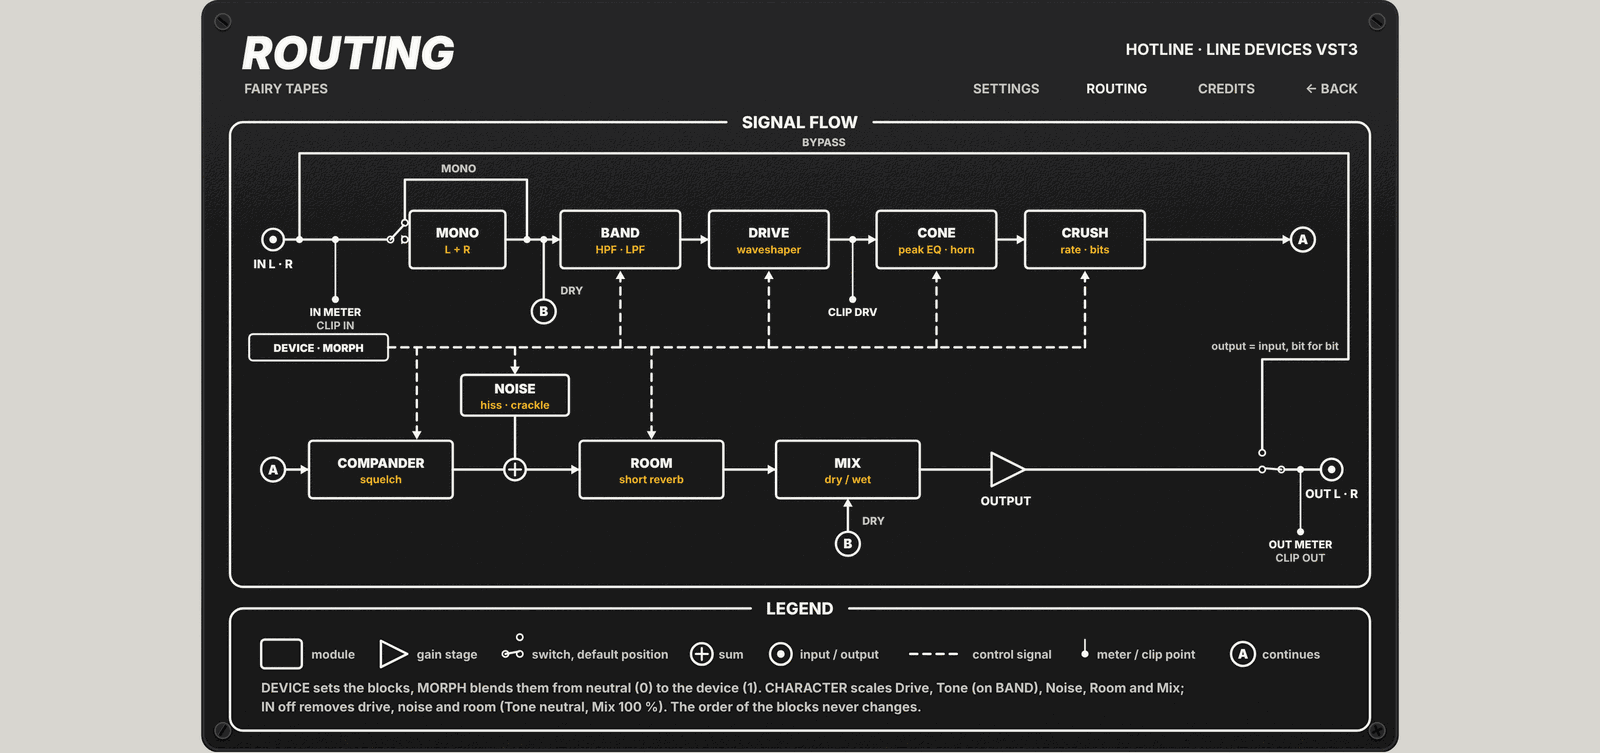
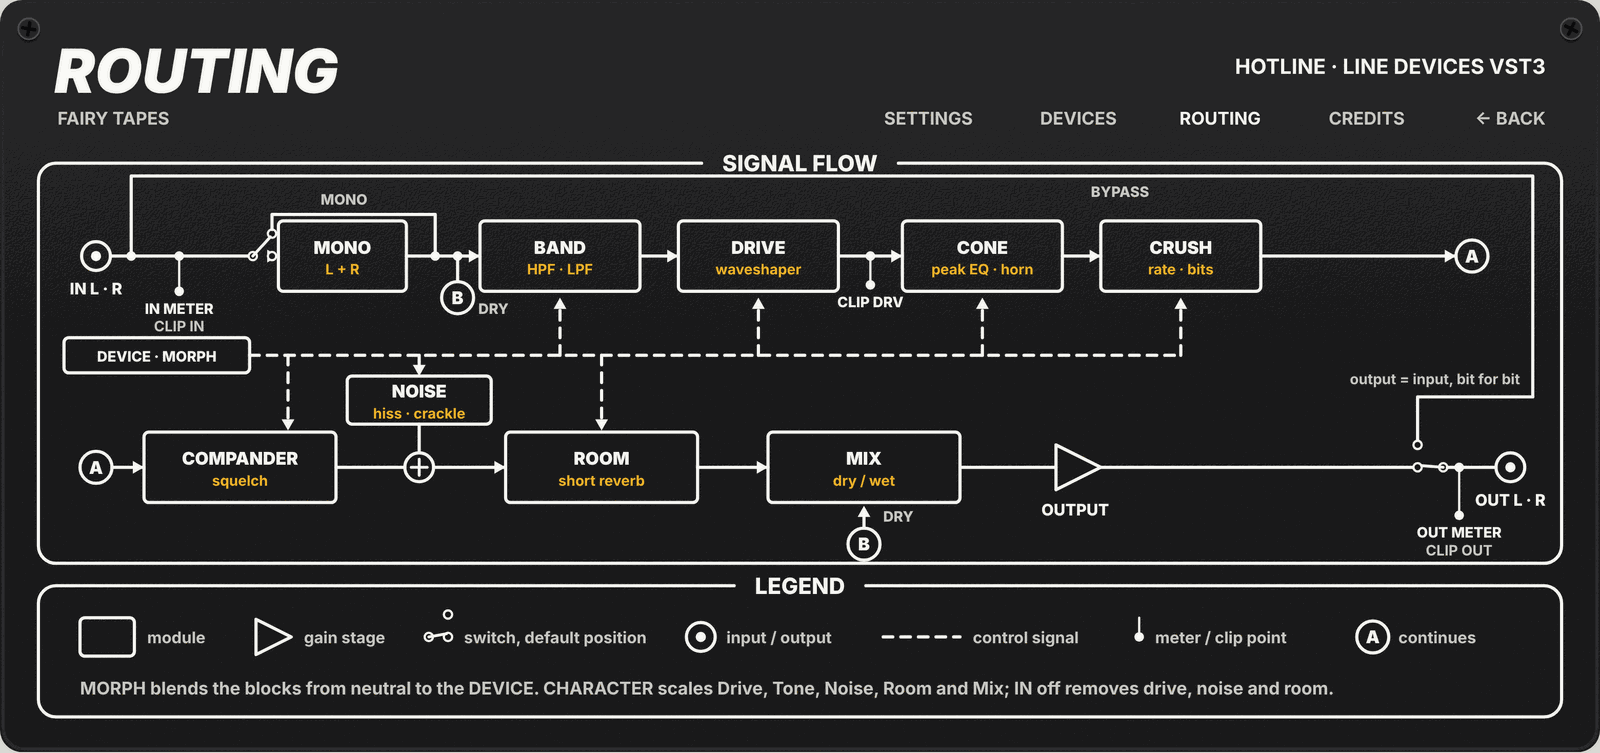
docs(hotline): preview back panel aligned with the editor
470 px tall, SETTINGS, DEVICES, ROUTING and CREDITS tabs, Hotline's own credits, the device table
and the ROUTING diagram transcribed from src/ui/routing_diagram.h.

Claude-Session: https://claude.ai/code/session_01BNqf3JT345UHWAeVCgeNwg

diff --git a/src/hotline/docs/mockups/hotline_rack.html b/src/hotline/docs/mockups/hotline_rack.html
@@ -30,7 +30,7 @@ body{margin:0;padding:16px;background:#e9e8e4;font-family:system-ui,sans-serif;c
   <label>Signal <input type="range" id="lvl" min="0" max="100" value="55" style="width:120px"></label>
   <span style="color:#555">Rack-style panel preview (1000 × 628, landscape). Knobs: drag vertically, Shift = fine, double-click = default. Click a clip LED to clear all. When a module IN button is off (all on by default) its controls dim; the BYPASS button at the top right (Output) dims everything and puts the plugin in bypass.</span>
 </div>
-<div class="stage"><div class="scene"><div class="card" id="card"><svg id="ui" viewBox="0 0 1000 470" role="img" aria-label="Hotline editor, rack-style panel"></svg><svg id="back" viewBox="0 0 1000 628" role="img" aria-label="Credits, references and licenses"></svg></div></div></div>
+<div class="stage"><div class="scene"><div class="card" id="card"><svg id="ui" viewBox="0 0 1000 470" role="img" aria-label="Hotline editor, rack-style panel"></svg><svg id="back" viewBox="0 0 1000 470" role="img" aria-label="Settings, devices, routing and credits"></svg></div></div></div>
 <script>
 var NS='http://www.w3.org/2000/svg',svg=document.getElementById('ui');
 function el(n,a,p){var e=document.createElementNS(NS,n);for(var k in a)e.setAttribute(k,a[k]);(p||CUR||ROOT).appendChild(e);return e;}
@@ -420,36 +420,36 @@ endGrp();byp(948,304,g1);
 
 
 
-/* ============ BACK: credits, references, licenses ============ */
+/* ============ BACK: settings, devices, routing, credits (2026-11-02: aligned with the editor, 470 px, the kShort template) ============ */
 var back=document.getElementById('back');ROOT=back;CUR=null;
-el('rect',{width:1000,height:628,rx:14,fill:'#161617'});texLayer();
-el('rect',{x:2,y:2,width:996,height:624,rx:13,fill:'none',stroke:'#2c2c2f','stroke-width':2});
+el('rect',{width:1000,height:470,rx:14,fill:'#161617'});texLayer();
+el('rect',{x:2,y:2,width:996,height:466,rx:13,fill:'none',stroke:'#2c2c2f','stroke-width':2});
 LY=layers();addWear(LY.wear,0x77,true);screws(LY.screw);
 var bTitle=txt('CREDITS',34,58,38,W,'start',900,back,true);
 txt('FAIRY TAPES',36,78,11,DIMW,'start',700);
-var PANES={credits:el('g',{},back),settings:el('g',{},back),routing:el('g',{},back)},BOXES={credits:el('g',{},LY.box),settings:el('g',{},LY.box),routing:el('g',{},LY.box)},TABEL={};
+var TABS=['settings','devices','routing','credits'],PANES={},BOXES={},TABEL={};
+TABS.forEach(function(k){PANES[k]=el('g',{},back);BOXES[k]=el('g',{},LY.box);});
 function tabLink(label,key,x){var g=el('g',{style:'cursor:pointer'});el('rect',{x:x-84,y:66,width:86,height:18,fill:'transparent'},g);TABEL[key]=txt(label,x,78,11,DIMW,'end',700,g);g.addEventListener('click',function(){showTab(key);});}
-tabLink('SETTINGS','settings',700);tabLink('ROUTING','routing',790);tabLink('CREDITS','credits',880);
+tabLink('SETTINGS','settings',608);tabLink('DEVICES','devices',698);tabLink('ROUTING','routing',788);tabLink('CREDITS','credits',878);
 var bk=el('g',{style:'cursor:pointer'});el('rect',{x:896,y:66,width:76,height:18,fill:'transparent'},bk);txt('←  BACK',966,78,11,DIMW,'end',700,bk);
 bk.addEventListener('click',function(){document.getElementById('card').classList.remove('flipped');});
-function showTab(k){lsSet('st_tab',k);bTitle.textContent=k.toUpperCase();['credits','settings','routing'].forEach(function(t){PANES[t].style.display=BOXES[t].style.display=(t===k?'':'none');TABEL[t].setAttribute('fill',t===k?W:DIMW);});}
+function showTab(k){if(TABS.indexOf(k)<0)k='settings';lsSet('st_tab',k);bTitle.textContent=k.toUpperCase();TABS.forEach(function(t){PANES[t].style.display=BOXES[t].style.display=(t===k?'':'none');TABEL[t].setAttribute('fill',t===k?W:DIMW);});}
 txt('HOTLINE  ·  LINE DEVICES VST3',966,46,13,W,'end',700);
 
-/* ---- CREDITS tab ---- */
+/* ---- CREDITS tab: what the plug-in ships (src/ui/credits.h) ---- */
 CUR=PANES.credits;BOXOVR=BOXES.credits;
-box(24,102,952,118,'HOTLINE','top');
-txt('Version 1.0.0  ·  Fairy Tapes  ·  github.com/sweetspot-tools',50,140,14,W,'start',700);
-txt('Free software: released under the GNU General Public License v3.0 (GPL-3.0), full text in the LICENSE file.',50,164,12,DIMW,'start',700);
-txt('The plugin includes GPL-3.0 components, so the combined work is distributed under the same license.',50,184,12,DIMW,'start',700);
-txt('Source code and build instructions are available in the project repository.',50,204,12,DIMW,'start',700);
-box(24,246,952,252,'COMPONENTS AND LICENSES','top');
-var CRD=[['4K-EQ · Multi-Comp','Dusk Audio','GPL-3.0'],['Airwindows','Chris Johnson','MIT'],['Neural Amp Modeler Core','Steven Atkinson','MIT'],['Eigen','Eigen contributors','MPL-2.0'],['nlohmann/json','Niels Lohmann','MIT'],['VST 3 SDK','Steinberg Media Technologies','MIT'],['VSTGUI','Steinberg Media Technologies','VSTGUI license (BSD)']];
-CRD.forEach(function(c,i){var y=284+i*30;txt(c[0],50,y,14,W,'start',800);txt(c[1],350,y,13,DIMW,'start',700);txt(c[2],950,y,13,AMBL,'end',700);
-  if(i<CRD.length-1)el('path',{d:'M50 '+(y+12)+' H950',stroke:DIMW,'stroke-width':1,opacity:.25});});
-box(24,522,952,88,'NOTICES','top');
-txt('VST is a trademark of Steinberg Media Technologies GmbH, registered in Europe and other countries.',50,556,12,DIMW,'start',700);
-txt('.nam models belong to their authors and each carries its own license.',50,578,12,DIMW,'start',700);
-txt('Third-party names are cited for attribution only.',50,598,12,DIMW,'start',700);
+box(24,102,952,92,'HOTLINE','top');
+txt('Version 1.0.0  ·  Fairy Tapes  ·  github.com/sweetspot-tools',50,132,14,W,'start',700);
+txt('Free software: released under the GNU General Public License v3.0 (GPL-3.0), full text in the LICENSE file.',50,150,12,DIMW,'start',700);
+txt('Source code, build instructions and the license texts of the components are in the project repository.',50,166,12,DIMW,'start',700);
+box(24,210,952,140,'COMPONENTS AND LICENSES','top');
+var CRD=[['VST 3 SDK','Steinberg Media Technologies','MIT'],['VSTGUI','Steinberg Media Technologies','BSD-3-Clause'],['Zeyada (tape font)','Kimberly Geswein','OFL-1.1'],['Rock Salt (tape font)','Font Diner','Apache-2.0'],['Homemade Apple (tape font)','Font Diner','Apache-2.0']];
+CRD.forEach(function(c,i){var y=238+i*22;txt(c[0],50,y,14,W,'start',800);txt(c[1],350,y,13,DIMW,'start',700);txt(c[2],950,y,13,AMBL,'end',700);
+  if(i<CRD.length-1)el('path',{d:'M50 '+(y+8)+' H950',stroke:DIMW,'stroke-width':1,opacity:.25});});
+box(24,366,952,82,'NOTICES','top');
+txt('VST is a trademark of Steinberg Media Technologies GmbH, registered in Europe and other countries.',50,394,12,DIMW,'start',700);
+txt('The tape fonts are embedded as vector outlines of their glyphs; no font file is installed.',50,412,12,DIMW,'start',700);
+txt('Third-party names are cited for attribution only.',50,430,12,DIMW,'start',700);
 
 /* ---- SETTINGS tab: appearance (saved for the user, all projects) and behaviour (saved with the project) ---- */
 CUR=PANES.settings;BOXOVR=BOXES.settings;
@@ -461,30 +461,32 @@ function seg(x,y,items,sel,cb,w){var rects=[],labels=[];w=w||70;
 function act(x,y,w,label,cb,off){var g=el('g',{style:off?'':'cursor:pointer',opacity:off?.4:1});var r=el('rect',{x:x,y:y,width:w,height:24,rx:2,fill:'#8e8e91',stroke:'#b8b8bb'},g);txt(label,x+w/2,y+16,11,'#1a1a1c','middle',800,g);if(!off)g.addEventListener('click',cb);}
 function row(label,y,hint,x0){x0=x0||50;txt(label,x0,y+16,13,W,'start',800);if(hint)txt(hint,x0,y+32,10,DIMW,'start',700);}
 var SC=514;
-box(24,102,462,364,'APPEARANCE','top');txt('saved for you, in every project',255,130,10,DIMW,'middle',700);
-row('WEAR',146);seg(200,146,['OFF','LIGHT','HEAVY'],['off','light','heavy'].indexOf(WEAR),function(i){var w=document.getElementById('wear');w.value=['off','light','heavy'][i];w.dispatchEvent(new Event('change'));},84);
-row('NOTES LAYER',194,'tape and pen marks on the values');seg(200,194,['HIDE','SHOW'],1,function(){},84);
+box(24,102,462,234,'APPEARANCE','top');txt('saved for you, in every project',255,130,10,DIMW,'middle',700);
+row('WEAR',140);seg(200,140,['OFF','LIGHT','HEAVY'],['off','light','heavy'].indexOf(WEAR),function(i){var w=document.getElementById('wear');w.value=['off','light','heavy'][i];w.dispatchEvent(new Event('change'));},84);
 /* tape font: stepper, each name drawn in its own font */
-row('TAPE FONT',242,'handwriting on the tape');(function(){var names=Object.keys(TAPEFONTS),x=200,y=242,w=176;
+row('TAPE FONT',180,'handwriting on the tape');(function(){var names=Object.keys(TAPEFONTS),x=200,y=180,w=176;
   function arrow(ax,lab,d){var g=el('g',{style:'cursor:pointer'});el('rect',{x:ax,y:y,width:24,height:24,rx:2,fill:'#8e8e91',stroke:'#b8b8bb'},g);txt(lab,ax+12,y+17,14,'#1a1a1c','middle',800,g);g.addEventListener('click',function(){var i=(names.indexOf(TAPEFONT)+d+names.length)%names.length;TAPEFONT=names[i];lsSet('st_tapefont',TAPEFONT);upd();redrawWear();applyHW();fitName();});}
   el('rect',{x:x+26,y:y,width:w,height:24,rx:2,fill:'none',stroke:W,'stroke-width':1.5});var t=el('text',{x:x+26+w/2,y:y+17,'text-anchor':'middle',fill:W});
   function upd(){t.textContent=TAPEFONT;t.setAttribute('font-family',"'"+TAPEFONT+"',cursive");t.setAttribute('font-size',Math.min(19,(12*TAPEFONTS[TAPEFONT]+3)).toFixed(1));}
   arrow(x,'‹',-1);arrow(x+26+w+2,'›',1);upd();})();
-row('VALUES FONT',290,'values and model name');seg(200,290,['STANDARD','TAPE FONT'],HW?1:0,function(i){HW=(i===1);lsSet('st_hw',HW?'1':'0');applyHW();},118);
-row('METER HOLD',338);seg(200,338,['OFF','1.5 S','3 S','INF'],1,function(){},63);
-row('METER RELEASE',386);seg(200,386,['SLOW','NORMAL','FAST'],1,function(){},84);
-row('LOOK',434);act(200,434,120,'RE-ROLL',function(){document.getElementById('reroll').click();});txt('new wear, dirt and screws',332,450,10,DIMW,'start',700);
-box(SC,102,462,364,'BEHAVIOUR','top');txt('saved with the project',SC+231,130,10,DIMW,'middle',700);
-row('NAM INFERENCE',146,'GPU available (CUDA)',SC+26);seg(SC+176,146,['AUTO','GPU','CPU'],0,function(){},84);
-row('RECALL MARKS',194,'where the pen marks sit',SC+26);seg(SC+176,194,['AUTO','MANUAL'],0,function(){},84);
-row('MARK NOW',242,'set the marks to the current values',SC+26);act(SC+176,242,120,'MARK NOW',function(){});
-row('MODEL FOLDERS',290,'',SC+26);act(SC+176,290,120,'MANAGE…',function(){});
-row('TONE3000',338,'',SC+26);act(SC+176,338,120,'SIGN IN',function(){},true);txt('coming later',SC+308,354,10,DIMW,'start',700);
-box(24,484,952,120,'NOTES','top');
-txt('Appearance settings belong to you: they are kept in your preferences and apply to every project and every instance.',50,522,12,DIMW,'start',700);
-txt('Behaviour settings change how the plugin works: they are saved in the project, together with the parameters.',50,544,12,DIMW,'start',700);
-txt('The wear layout (scratches, tape, screws) is generated once per instance from a saved seed and never changes by itself.',50,566,12,DIMW,'start',700);
-txt('Double-click on a knob returns it to its neutral default.',50,588,12,DIMW,'start',700);
+box(SC,102,462,234,'BEHAVIOUR','top');txt('saved with the project',SC+231,130,10,DIMW,'middle',700);
+box(24,350,952,98,'NOTES','top');
+txt('Appearance settings belong to you: they are kept in your preferences and apply to every project and every instance.',50,376,12,DIMW,'start',700);
+txt('Hotline has no behaviour settings yet; the ones added later are saved in the project, together with the parameters.',50,394,12,DIMW,'start',700);
+txt('The wear layout (scratches, tape, screws) is generated once per instance from a saved seed and never changes by itself.',50,412,12,DIMW,'start',700);
+txt('Double-click on a knob returns it to its neutral default.',50,430,12,DIMW,'start',700);
+
+/* ---- DEVICES tab: the device table (src/devices.cpp), one box per device, as the editor draws it ---- */
+CUR=PANES.devices;BOXOVR=BOXES.devices;
+var DEVTAB=[['Megaphone',[['HIGH PASS','400 Hz'],['LOW PASS','4.5 kHz'],['DRIVE','50 %'],['CONE','1.8 kHz +6 dB Q 2'],['HORN','+4 dB'],['COMPANDER','3:1'],['NOISE','-60 dB'],['ROOM','5 %']]],
+  ['Telephone',[['HIGH PASS','300 Hz'],['LOW PASS','3.4 kHz'],['DRIVE','25 %'],['CONE','1.2 kHz +3 dB Q 1'],['CRUSH','8 kHz 10 bit'],['COMPANDER','2:1'],['NOISE','-54 dB']]],
+  ['Walkie-talkie',[['HIGH PASS','400 Hz'],['LOW PASS','2.8 kHz'],['DRIVE','70 %'],['CONE','1.5 kHz +4 dB Q 1'],['CRUSH','11.025 kHz 8 bit'],['COMPANDER','6:1 squelch -50 dB'],['NOISE','-40 dB']]],
+  ['AM radio',[['HIGH PASS','150 Hz'],['LOW PASS','5 kHz'],['DRIVE','30 %'],['CONE','900 Hz +2 dB Q 0.8'],['COMPANDER','2:1'],['NOISE','-48 dB']]],
+  ['Station PA',[['HIGH PASS','250 Hz'],['LOW PASS','6 kHz'],['DRIVE','20 %'],['CONE','2.5 kHz +4 dB Q 1.5'],['COMPANDER','2:1'],['NOISE','-66 dB'],['ROOM','60 %']]],
+  ['Cheap speaker',[['HIGH PASS','180 Hz'],['LOW PASS','7 kHz'],['DRIVE','40 %'],['CONE','1.1 kHz +5 dB Q 3'],['NOISE','-70 dB']]]];
+DEVTAB.forEach(function(d,i){var bx=24+(i%3)*322,by=i<3?102:283;box(bx,by,308,166,d[0],'top');
+  d[1].forEach(function(r,j){var y=by+34+j*16,lt=txt(r[0],bx+22,y,11,W,'start',800);txt(r[1],bx+22+lt.getComputedTextLength()+5,y,11,DIMW,'start',700);});});
+
 /* ---- ROUTING tab (design system, 2026-10-23): fixed block diagram of the signal path, outboard-manual style; order of the audio engine (spec §2) ---- */
 CUR=PANES.routing;BOXOVR=BOXES.routing;
 var RT=(function(){
@@ -506,45 +508,44 @@ var RT=(function(){
   function conn(x,y,k){el('circle',{cx:x,cy:y,r:10,fill:'none',stroke:W,'stroke-width':2});txt(k,x,y+4,11,W,'middle',900);}
   function sum(x,y){el('circle',{cx:x,cy:y,r:9,fill:'none',stroke:W,'stroke-width':2});ln('M'+(x-5)+' '+y+' H'+(x+5)+' M'+x+' '+(y-5)+' V'+(y+5),false,1.8);}
   return {ln:ln,arrow:arrow,arrowUp:arrowUp,arrowDown:arrowDown,dot:dot,ring:ring,jack:jack,amp:amp,block:block,inSwitch:inSwitch,tap:tap,conn:conn,sum:sum};})();
-box(24,102,952,388,'SIGNAL FLOW','top');
-(function(){var Y1=200,Y2=392,L=RT.ln,CB=290;
-  /* row 1: input, mono sum (off by default), dry split, band, drive, cone, crush */
-  RT.jack(60,Y1,'IN L · R');L('M69 '+Y1+' H158');RT.dot(82,Y1);RT.tap(112,Y1,50,'IN METER','CLIP IN');
-  L('M170 '+Y1+' H174');RT.block(174,254,Y1,48,'MONO',['L + R']);RT.inSwitch(158,Y1,272,150,'MONO',true);L('M254 '+Y1+' H300');
-  RT.dot(286,Y1);L('M286 '+Y1+' V250');RT.conn(286,260,'B');txt('DRY',300,246,9,DIMW,'start',800);
-  RT.block(300,400,Y1,48,'BAND',['HPF · LPF']);L('M400 '+Y1+' H424');
-  RT.block(424,524,Y1,48,'DRIVE',['waveshaper']);L('M524 '+Y1+' H564');RT.tap(544,Y1,50,'CLIP DRV');
-  RT.block(564,664,Y1,48,'CONE',['peak EQ · horn']);L('M664 '+Y1+' H688');
-  RT.block(688,788,Y1,48,'CRUSH',['rate · bits']);L('M788 '+Y1+' H910');
-  RT.arrow(910,Y1);RT.conn(920,Y1,'A');
-  /* DEVICE x MORPH: control line into every block the device table sets */
-  el('rect',{x:40,y:CB-11,width:116,height:22,rx:3,fill:'none',stroke:W,'stroke-width':1.6});txt('DEVICE · MORPH',98,CB+4,9,W,'middle',900);
+box(24,102,952,250,'SIGNAL FLOW','top');
+/* transcription of src/ui/routing_diagram.h (the editor, 470 px back): rows at 160 and 292 */
+(function(){var Y1=160,CB=222,Y2=292,TOP=110,YB=248,Ysw=Y1-26,L=RT.ln;
+  /* row 1: input, mono sum (off by default), dry tap, band, drive, cone, crush */
+  RT.jack(60,Y1,'IN L · R');L('M69 '+Y1+' H158');RT.dot(82,Y1);RT.tap(112,Y1,22,'IN METER','CLIP IN');
+  L('M170 '+Y1+' H174');RT.block(174,254,Y1,44,'MONO',['L + R']);
+  RT.ring(158,Y1);RT.ring(170,Y1);RT.ring(170,Y1-14);L('M158 '+Y1+' L169 '+(Y1-12),false,1.8);
+  L('M170 '+(Y1-16.6)+' V'+Ysw+' H272 V'+Y1);RT.dot(272,Y1);txt('MONO',215,Ysw-6,9,DIMW,'middle',800);
+  L('M254 '+Y1+' H300');RT.dot(286,Y1);L('M286 '+Y1+' V'+(Y1+16));RT.conn(286,Y1+26,'B');txt('DRY',299,Y1+36,9,DIMW,'start',800);
+  RT.block(300,400,Y1,44,'BAND',['HPF · LPF']);L('M400 '+Y1+' H424');
+  RT.block(424,524,Y1,44,'DRIVE',['waveshaper']);L('M524 '+Y1+' H564');RT.tap(544,Y1,18,'CLIP DRV');
+  RT.block(564,664,Y1,44,'CONE',['peak EQ · horn']);L('M664 '+Y1+' H688');
+  RT.block(688,788,Y1,44,'CRUSH',['rate · bits']);L('M788 '+Y1+' H910');RT.arrow(910,Y1);RT.conn(920,Y1,'A');
+  /* DEVICE x MORPH: a control line into every block the device table sets */
+  el('rect',{x:40,y:CB-11,width:116,height:22,rx:3,fill:'none',stroke:W,'stroke-width':2});txt('DEVICE · MORPH',98,CB+4,9,W,'middle',800);
   L('M156 '+CB+' H738',true);
-  [350,474,614,738].forEach(function(x){L('M'+x+' '+CB+' V232',true);RT.arrowUp(x,226);});
-  [180,262,376].forEach(function(x){L('M'+x+' '+CB+' V'+(x===262?Y2-86:Y2-32),true);RT.arrowDown(x,x===262?Y2-79:Y2-25);});
+  [350,474,614,738].forEach(function(x){L('M'+x+' '+CB+' V'+(Y1+33),true);RT.arrowUp(x,Y1+26);});
+  [180,262,376].forEach(function(x){var n=x===262;L('M'+x+' '+CB+' V'+(n?Y2-64:Y2-30),true);RT.arrowDown(x,n?Y2-57:Y2-23);});
   /* global BYPASS: from the input jack straight to the output switch */
-  L('M82 '+Y1+' V128 H958 V300 H886 V'+(Y2-16.6));txt('BYPASS',520,122,9,DIMW,'middle',800);txt('output = input, bit for bit',950,292,9,DIMW,'end',700);
+  L('M82 '+Y1+' V'+TOP+' H958 V'+YB+' H886 V'+(Y2-16.6));txt('BYPASS',700,TOP+13,9,DIMW,'middle',800);txt('output = input, bit for bit',950,YB-8,9,DIMW,'end',700);
   /* row 2: compander, noise added, room, mix (dry from B), output */
-  RT.conn(60,Y2,'A');L('M70 '+Y2+' H90');
-  RT.block(90,210,Y2,48,'COMPANDER',['squelch']);L('M210 '+Y2+' H253');
-  RT.block(217,307,Y2-62,34,'NOISE',['hiss · crackle'],true);L('M262 '+(Y2-45)+' V'+(Y2-9));RT.sum(262,Y2);L('M271 '+Y2+' H316');
-  RT.block(316,436,Y2,48,'ROOM',['short reverb']);L('M436 '+Y2+' H480');
-  RT.block(480,600,Y2,48,'MIX',['dry / wet']);RT.conn(540,Y2+62,'B');L('M540 '+(Y2+52)+' V'+(Y2+31));RT.arrowUp(540,Y2+24);txt('DRY',552,Y2+46,9,DIMW,'start',800);
+  RT.conn(60,Y2,'A');L('M70 '+Y2+' H90');RT.block(90,210,Y2,44,'COMPANDER',['squelch']);L('M210 '+Y2+' H253');
+  RT.block(217,307,Y2-42,30,'NOISE',['hiss · crackle'],true);L('M262 '+(Y2-27)+' V'+(Y2-9));RT.sum(262,Y2);L('M271 '+Y2+' H316');
+  RT.block(316,436,Y2,44,'ROOM',['short reverb']);L('M436 '+Y2+' H480');
+  RT.block(480,600,Y2,44,'MIX',['dry / wet']);RT.conn(540,Y2+48,'B');L('M540 '+(Y2+38)+' V'+(Y2+31));RT.arrowUp(540,Y2+24);txt('DRY',552,Y2+34,9,DIMW,'start',800);
   L('M600 '+Y2+' H660');RT.amp(660,Y2,'OUTPUT');L('M688 '+Y2+' H884');
-  RT.ring(886,Y2);RT.ring(886,Y2-14);RT.ring(902,Y2);L('M902 '+Y2+' L888.5 '+(Y2-1),false,1.8);L('M904.6 '+Y2+' H935');RT.tap(918,Y2,52,'OUT METER','CLIP OUT');
+  RT.ring(886,Y2);RT.ring(886,Y2-14);RT.ring(902,Y2);L('M902 '+Y2+' L888.5 '+(Y2-1),false,1.8);L('M904.6 '+Y2+' H935');RT.tap(912,Y2,30,'OUT METER','CLIP OUT');
   RT.jack(944,Y2,'OUT L · R');})();
-box(24,508,952,102,'LEGEND','top');
-(function(){var y=546,L=RT.ln;
+box(24,366,952,82,'LEGEND','top');
+(function(){var y=398,L=RT.ln;
   el('rect',{x:50,y:y-12,width:34,height:24,rx:3,fill:'none',stroke:W,'stroke-width':2});txt('module',92,y+4,10,DIMW,'start',700);
-  el('path',{d:'M150 '+(y-11)+' L172 '+y+' L150 '+(y+11)+' Z',fill:'none',stroke:W,'stroke-width':2,'stroke-linejoin':'round'});txt('gain stage',180,y+4,10,DIMW,'start',700);
-  RT.ring(254,y);RT.ring(266,y);RT.ring(266,y-14);L('M254 '+y+' L265 '+(y-2),false,1.8);txt('switch, default position',276,y+4,10,DIMW,'start',700);
-  RT.sum(418,y);txt('sum',432,y+4,10,DIMW,'start',700);
-  el('circle',{cx:484,cy:y,r:9,fill:'none',stroke:W,'stroke-width':2});el('circle',{cx:484,cy:y,r:3.2,fill:W});txt('input / output',500,y+4,10,DIMW,'start',700);
-  L('M592 '+y+' H636',true);txt('control signal',644,y+4,10,DIMW,'start',700);
-  RT.dot(738,y);L('M738 '+y+' V'+(y-12),false,1.4);txt('meter / clip point',748,y+4,10,DIMW,'start',700);
-  RT.conn(870,y,'A');txt('continues',886,y+4,10,DIMW,'start',700);
-  txt('DEVICE sets the blocks, MORPH blends them from neutral (0) to the device (1). CHARACTER scales Drive, Tone (on BAND), Noise, Room and Mix;',50,y+32,11,DIMW,'start',700);
-  txt('IN off removes drive, noise and room (Tone neutral, Mix 100 %). The order of the blocks never changes.',50,y+48,11,DIMW,'start',700);})();
+  el('path',{d:'M160 '+(y-11)+' L182 '+y+' L160 '+(y+11)+' Z',fill:'none',stroke:W,'stroke-width':2,'stroke-linejoin':'round'});txt('gain stage',190,y+4,10,DIMW,'start',700);
+  RT.ring(268,y);RT.ring(280,y);RT.ring(280,y-14);L('M268 '+y+' L279 '+(y-2),false,1.8);txt('switch, default position',290,y+4,10,DIMW,'start',700);
+  el('circle',{cx:438,cy:y,r:9,fill:'none',stroke:W,'stroke-width':2});el('circle',{cx:438,cy:y,r:3.2,fill:W});txt('input / output',454,y+4,10,DIMW,'start',700);
+  L('M552 '+y+' H600',true);txt('control signal',608,y+4,10,DIMW,'start',700);
+  RT.dot(712,y);L('M712 '+y+' V'+(y-12),false,1.4);txt('meter / clip point',722,y+4,10,DIMW,'start',700);
+  RT.conn(858,y,'A');txt('continues',874,y+4,10,DIMW,'start',700);
+  txt('MORPH blends the blocks from neutral to the DEVICE. CHARACTER scales Drive, Tone, Noise, Room and Mix; IN off removes drive, noise and room.',50,y+36,11,DIMW,'start',700);})();
 CUR=null;BOXOVR=null;showTab(lsGet('st_tab','settings'));
 ROOT=svg;
 

diff --git a/docs/superpowers/specs/2026-10-10-hotline-design.md b/docs/superpowers/specs/2026-10-10-hotline-design.md
@@ -59,7 +59,7 @@ Pannello rack orizzontale 1000 × 470 (altezza di Pillow Talk, così il retro us
 - **Riga 2:** MORPH (manopola grande) e un solo blocco CHARACTER con Drive, Tone, Noise, Room e Mix (manopole un po' più ravvicinate e IN del blocco appena più in basso, preview 2026-10-21; editor da allineare).
 - **IN:** un solo pulsante IN per CHARACTER, che attenua tutti e cinque i controlli (Mix compreso). Il Bypass globale attenua tutto e fa passare il segnale identico, bit per bit.
 - Usura, viti e retro (SETTINGS, DEVICES, ROUTING, CREDITS) come da design system. **Viti** ai quattro angoli del pannello 470 (y 18 e y 452) e **usura** scalata al pannello 470; sei posizioni fisse per i nastri di carta (`kTapeSlots` in `ui/layout.h`), mai sopra i controlli. Le viti ci sono anche sul retro e condividono con il fronte le rotazioni salvate (scelta dell'implementatore: in Pillow Talk il retro non ne ha).
-- **Preview:** `src/hotline/docs/mockups/hotline_rack.html` ha ancora il retro di 628 di altezza derivato da The Stripper e manca la scheda DEVICES; il riferimento attuale del retro è la resa dell'editor (`hotline_render`). Decisione aperta in §8.
+- **Preview:** `src/hotline/docs/mockups/hotline_rack.html`; dal 2026-11-02 il retro è quello dell'editor (470 di altezza, schede SETTINGS, DEVICES, ROUTING, CREDITS, testi dell'editor e schema trascritto da `src/ui/routing_diagram.h`).
 - **Retro, SETTINGS (realizzato):** APPEARANCE con WEAR (Off / Light / Heavy) e TAPE FONT (Zeyada / Rock Salt / Homemade Apple), nel file delle preferenze; il riquadro **BEHAVIOUR è vuoto**, perché Hotline non ha ancora impostazioni di comportamento (nessun controllo inerte). NOTES LAYER, VALUES FONT e RE-ROLL non sono offerti (Hotline non ha strato di note né valori scritti a mano).
 - **Retro, scheda DEVICES (deciso):** oltre a SETTINGS e CREDITS, il retro ha una scheda **DEVICES** che spiega cosa fa ciascun pulsante di Device e **quali valori impone** (frequenze di HPF e LPF, drive, risonanza del cono, crush, compander, rumore, room e relative note). La scheda è generata dalla stessa tabella dei dispositivi usata dal motore: i valori mostrati non possono divergere da quelli applicati.
 - **Retro, scheda ROUTING (regola comune del 2026-10-23, preview fatta):** schema a blocchi fisso della catena del §2, nello stile di `docs/DESIGN_SYSTEM.md`: IN → meter IN → MONO (somma L+R, disegnata col deviatore in posizione spento) → presa del dry → BAND → DRIVE (clip DRV) → CONE → CRUSH → COMPANDER → somma del NOISE → ROOM → MIX (dry dalla presa dopo MONO) → Gain di OUTPUT → BYPASS globale (dall'ingresso) → meter OUT; DEVICE · MORPH come linea di controllo tratteggiata verso i blocchi del dispositivo; CHARACTER e il suo IN spiegati nella legenda (non cambiano il percorso). Ordine dei link: SETTINGS, DEVICES, ROUTING, CREDITS. Nell'editor (altezza 470, template `kShort`) lo schema ha le stesse voci e lo stesso ordine della preview ma con le righe compresse; la legenda sta in **una sola riga** (il riquadro LEGEND di `kShort` ne ha una), e il segno di somma del NOISE è disegnato in locale (cerchio con un più), perché il kit non ha il segno né `LegendSymbol::Sum`: si suggerisce `RoutingBuilder::sum` / `LegendSymbol::Sum` in `shared/ui` (richiesta a chi ha in carico `shared/`). Presa del dry del MIX: dopo la somma mono e prima della BAND (confermata dal motore nel Task 5).
@@ -93,7 +93,7 @@ Pannello rack orizzontale 1000 × 470 (altezza di Pillow Talk, così il retro us
 Nessuna decisione aperta sul kit comune (vedi "Decise").
 
 - **Legenda di ROUTING su CHARACTER IN (corretta il 2026-11-02):** preview ed editor dicevano che con IN spento i cinque controlli "keep the device values"; ora "IN off removes drive, noise and room", come fa `applyCharacterIn` e come dice il §2. Test in `test_back.cpp`.
-- **Retro della preview (deciso il 2026-11-02, da fare):** la preview si aggiorna all'editor: retro alto 470, schede SETTINGS, DEVICES, ROUTING, CREDITS, credits di Hotline (VST 3 SDK, VSTGUI, i tre font). L'immagine del README resta generata dalla preview.
+- **Retro della preview (deciso e fatto il 2026-11-02):** la preview si aggiorna all'editor: retro alto 470, schede SETTINGS, DEVICES, ROUTING, CREDITS, credits di Hotline (VST 3 SDK, VSTGUI, i tre font). L'immagine del README resta generata dalla preview.
 
 Note tecniche rinviate (una riga ciascuna):
 - `band.h` giudica il neutro dopo il limite `0,45·fs`: sotto circa 43,3 kHz di sample rate la banda non risulta mai neutra; il motore lo aggira con il peso di banda (`engine.cpp`).

diff --git a/src/hotline/README.md b/src/hotline/README.md
@@ -219,9 +219,8 @@ python3 shared/ui/tools/gen_tape_fonts.py --zeyada Zeyada.ttf --rocksalt RockSal
 user's preferences file, as a click on the back would: point `XDG_CONFIG_HOME` at a scratch folder when you use it. The
 full list is at the top of `tools/render_editor.cpp`.
 
-The back of the HTML preview (`docs/mockups/hotline_rack.html`) is out of date (628 px tall, no DEVICES tab, credits
-taken from The Stripper); the reference for the back panel is a render of `hotline_render`. Its ROUTING tab matches the
-editor's.
+The back of the HTML preview (`docs/mockups/hotline_rack.html`) matches the editor since 2026-11-02: 470 px tall, tabs
+SETTINGS, DEVICES, ROUTING and CREDITS, with the editor's texts and diagram.
 
 ### Manual check list
 

diff --git a/docs/superpowers/plans/2026-10-10-hotline.md b/docs/superpowers/plans/2026-10-10-hotline.md
@@ -255,5 +255,5 @@ Il kit di `shared/ui` esiste (non più bloccato). Il pannello è alto 470, quind
 
 ### Task 10 (2026-11-02): retro della preview allineato all'editor
 
-- [ ] `hotline_rack.html`: retro 470, scheda DEVICES dalla tabella dei dispositivi, credits di Hotline; confronto con `hotline_render back=...`.
-- [ ] Immagine di ROUTING rigenerata.
+- [x] `hotline_rack.html`: retro 470, scheda DEVICES dalla tabella dei dispositivi, credits di Hotline; confronto con `hotline_render back=...`.
+- [x] Immagine di ROUTING rigenerata.
